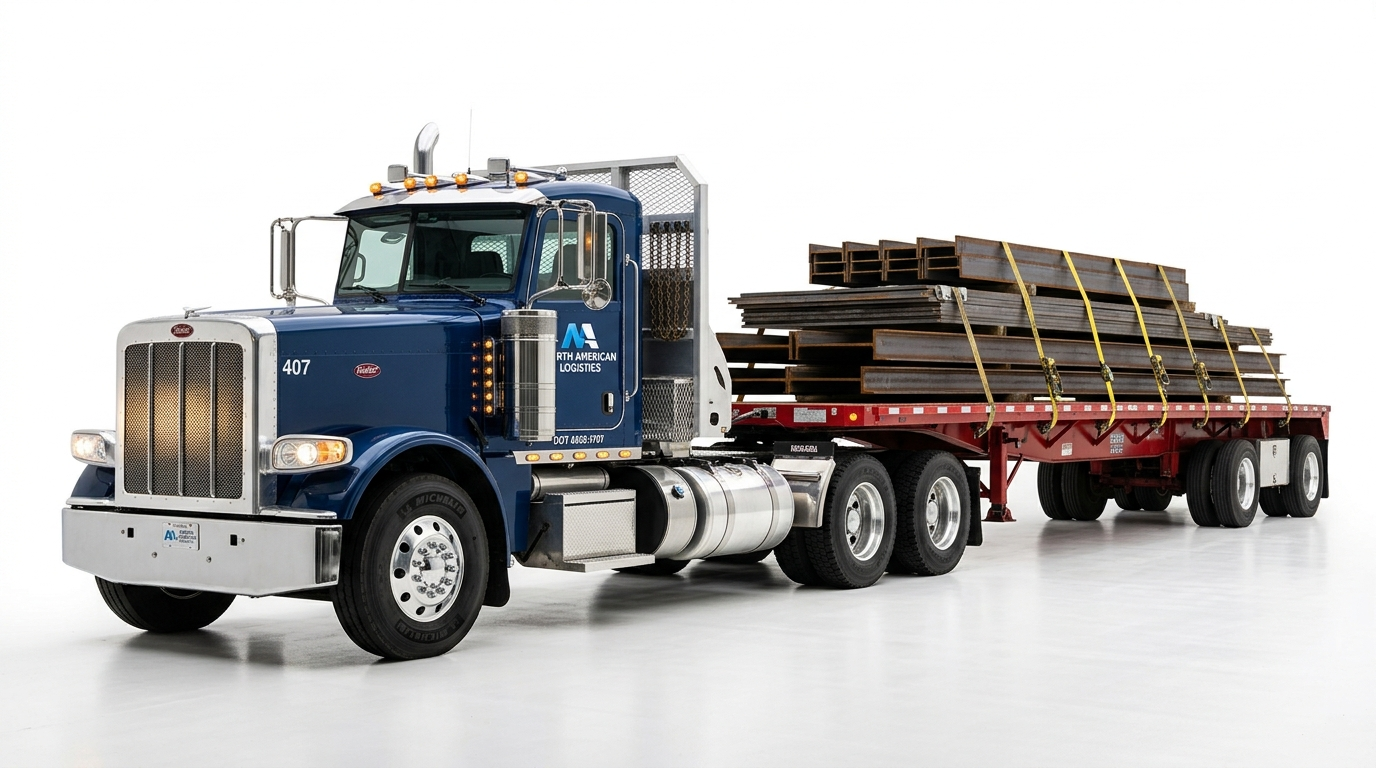
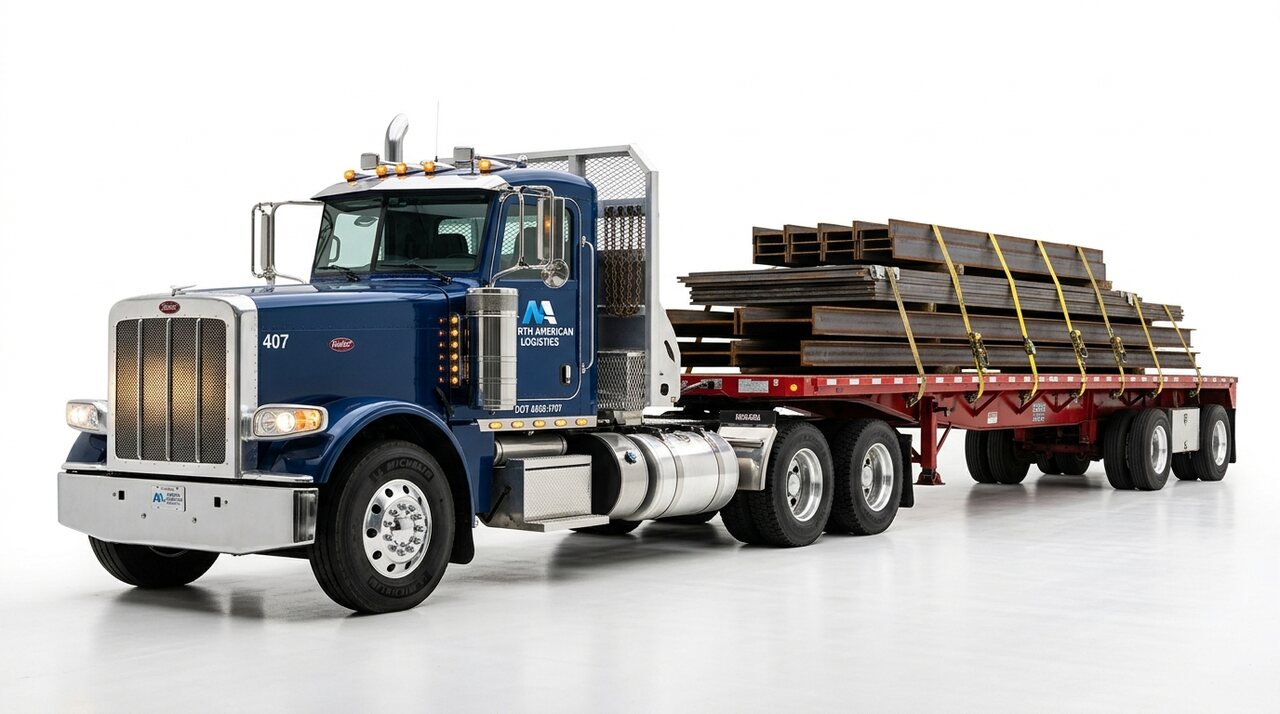
perf: migrate truck imagery to WebP and add thumbnails
Transitioned truck assets to WebP for improved performance and added dedicated thumbnail support to optimize load times and rendering in the UI.

diff --git a/src/components/TruckImage.tsx b/src/components/TruckImage.tsx
@@ -2,11 +2,15 @@ import React, { useState, useEffect } from 'react';
 import { TruckTypeData } from '../data/truckTypesData';
 import { Truck } from 'lucide-react';
 
+// Global cache of successfully loaded and decoded image URLs
+const loadedImageCache = new Set<string>();
+
 interface TruckImageProps {
   truck: TruckTypeData;
   className?: string;
   containerClassName?: string;
   isTransparentBlend?: boolean;
+  isThumbnail?: boolean;
   onLoaded?: () => void;
   alt?: string;
 }
@@ -16,31 +20,56 @@ export const TruckImage: React.FC<TruckImageProps> = ({
   className = 'w-full h-auto object-contain',
   containerClassName = '',
   isTransparentBlend = false,
+  isThumbnail = false,
   onLoaded,
   alt
 }) => {
-  // Try primary (Vite bundled asset) first, then fallback to static public URL
-  const [currentSrc, setCurrentSrc] = useState<string>(truck.publicImagePath || truck.realImagePath);
+  // Determine best image source: tiny WebP thumbnail for step buttons, optimized WebP for main view
+  const primarySrc = isThumbnail
+    ? (truck.thumbImagePath || `/images/trucks/${truck.id}-thumb.webp`)
+    : (truck.webpImagePath || truck.publicImagePath || `/images/trucks/${truck.id}.webp`);
+
+  const fallbackJpg = `/images/trucks/${truck.id}.jpg`;
+
+  const [currentSrc, setCurrentSrc] = useState<string>(primarySrc);
   const [hasError, setHasError] = useState<boolean>(false);
-  const [isLoaded, setIsLoaded] = useState<boolean>(false);
+  // If already loaded in memory, render immediately with 0ms delay
+  const [isLoaded, setIsLoaded] = useState<boolean>(() => loadedImageCache.has(primarySrc));
   const [triedFallback, setTriedFallback] = useState<boolean>(false);
 
   useEffect(() => {
-    // When truck changes, reset error & loaded state
-    setCurrentSrc(truck.publicImagePath || truck.realImagePath);
+    const nextSrc = isThumbnail
+      ? (truck.thumbImagePath || `/images/trucks/${truck.id}-thumb.webp`)
+      : (truck.webpImagePath || truck.publicImagePath || `/images/trucks/${truck.id}.webp`);
+
+    setCurrentSrc(nextSrc);
     setHasError(false);
-    setIsLoaded(false);
     setTriedFallback(false);
-  }, [truck.id, truck.realImagePath, truck.publicImagePath]);
+
+    // If this specific URL was already loaded in browser session, display immediately without flashing
+    if (loadedImageCache.has(nextSrc)) {
+      setIsLoaded(true);
+    } else {
+      setIsLoaded(false);
+    }
+  }, [truck.id, isThumbnail, truck.thumbImagePath, truck.webpImagePath, truck.publicImagePath]);
+
+  const handleLoad = () => {
+    loadedImageCache.add(currentSrc);
+    setIsLoaded(true);
+    if (onLoaded) {
+      onLoaded();
+    }
+  };
 
   const handleError = () => {
     if (!triedFallback) {
       setTriedFallback(true);
-      // Try switching between realImagePath and publicImagePath
-      if (currentSrc === truck.publicImagePath && truck.realImagePath) {
+      // Fallback from WebP to optimized JPEG or bundled asset
+      if (currentSrc !== fallbackJpg) {
+        setCurrentSrc(fallbackJpg);
+      } else if (truck.realImagePath && currentSrc !== truck.realImagePath) {
         setCurrentSrc(truck.realImagePath);
-      } else if (truck.publicImagePath) {
-        setCurrentSrc(truck.publicImagePath);
       } else {
         setHasError(true);
       }
@@ -49,52 +78,42 @@ export const TruckImage: React.FC<TruckImageProps> = ({
     }
   };
 
-  const handleLoad = () => {
-    setIsLoaded(true);
-    if (onLoaded) {
-      onLoaded();
-    }
-  };
-
   if (hasError) {
-    // Elegant SVG fallback with truck details if image completely fails
     return (
-      <div className={`flex flex-col items-center justify-center p-6 bg-slate-50 rounded-xl border border-slate-200 text-center select-none ${containerClassName}`}>
-        <div className="w-14 h-14 rounded-2xl bg-blue-50 border border-blue-100 flex items-center justify-center text-[#02a2f0] mb-3">
-          <Truck className="w-7 h-7" />
+      <div className={`flex flex-col items-center justify-center p-4 bg-slate-50 rounded-xl border border-slate-200 text-center select-none ${containerClassName}`}>
+        <div className="w-10 h-10 rounded-xl bg-blue-50 border border-blue-100 flex items-center justify-center text-[#02a2f0] mb-2">
+          <Truck className="w-5 h-5" />
         </div>
-        <div className="font-extrabold text-sm text-slate-800">{truck.name}</div>
-        <div className="text-xs text-slate-500 font-medium mt-1">{truck.category}</div>
-        <div className="mt-2 text-[10px] font-mono font-semibold px-2.5 py-1 bg-white rounded-md border border-slate-200 text-slate-600">
-          {truck.length} · {truck.maxCargoWeightLbs.toLocaleString()} lbs Payload
-        </div>
+        <div className="font-extrabold text-xs text-slate-800">{truck.name}</div>
+        <div className="text-[10px] text-slate-400 font-medium mt-0.5">{truck.category}</div>
       </div>
     );
   }
 
   return (
     <div className={`relative overflow-hidden ${containerClassName}`}>
-      {/* Loading Skeleton Pulse */}
+      {/* Ultra-light skeleton that disappears the instant the image is cached */}
       {!isLoaded && (
-        <div className="absolute inset-0 bg-slate-50 flex items-center justify-center z-0">
-          <div className="flex items-center gap-2 text-slate-400 text-xs font-semibold">
-            <div className="w-3.5 h-3.5 rounded-full border-2 border-slate-300 border-t-[#02a2f0] animate-spin" />
-            <span>Loading {truck.name.split(' ')[0]} photo...</span>
-          </div>
+        <div className="absolute inset-0 bg-slate-50/80 flex items-center justify-center z-0 transition-opacity duration-150">
+          <div className="w-3.5 h-3.5 rounded-full border-2 border-slate-300 border-t-[#02a2f0] animate-spin" />
         </div>
       )}
 
-      {/* Main Image */}
+      {/* High-speed image tag */}
       <img
         src={currentSrc}
         alt={alt || `${truck.name} - ${truck.category}`}
         loading="eager"
         decoding="async"
+        fetchPriority={isThumbnail ? 'low' : 'high'}
         onLoad={handleLoad}
         onError={handleError}
-        className={`${className} transition-opacity duration-300 ${
+        className={`${className} ${
           isLoaded ? 'opacity-100' : 'opacity-0'
         } ${isTransparentBlend ? 'mix-blend-multiply' : ''}`}
+        style={{
+          transition: isLoaded ? 'none' : 'opacity 0.15s ease-out'
+        }}
       />
     </div>
   );

diff --git a/src/data/truckTypesData.ts b/src/data/truckTypesData.ts
@@ -38,6 +38,8 @@ export interface TruckTypeData {
   badge: string;
   realImagePath: string;
   publicImagePath: string;
+  webpImagePath?: string;
+  thumbImagePath?: string;
   color: string;
   shortDescription: string;
   fullDescription: string;
@@ -73,7 +75,9 @@ export const TRUCK_TYPES: TruckTypeData[] = [
     category: 'Enclosed General Freight',
     badge: 'Most Common (70% of US Freight)',
     realImagePath: dryVanImg,
-    publicImagePath: '/images/trucks/dry-van.jpg',
+    publicImagePath: '/images/trucks/dry-van.webp',
+    webpImagePath: '/images/trucks/dry-van.webp',
+    thumbImagePath: '/images/trucks/dry-van-thumb.webp',
     color: '#02a2f0',
     shortDescription: 'The universal workhorse of domestic logistics. Completely enclosed 53-foot trailer protecting non-perishable palletized consumer freight from weather, road debris, and theft.',
     fullDescription: 'Dry vans represent over two-thirds of all commercial trailers on American highways. Measuring 53 feet in length and 102 inches in width, they provide 4,000+ cubic feet of volume. Featuring thin, lightweight composite sidewalls, a translucent or aluminum roof, and wood flooring, they are loaded exclusively through rear double doors at dock-height facilities.',
@@ -226,7 +230,9 @@ export const TRUCK_TYPES: TruckTypeData[] = [
     category: 'Temperature-Controlled Carrier',
     badge: 'Perishable & High-Value Cargo',
     realImagePath: reeferImg,
-    publicImagePath: '/images/trucks/reefer.jpg',
+    publicImagePath: '/images/trucks/reefer.webp',
+    webpImagePath: '/images/trucks/reefer.webp',
+    thumbImagePath: '/images/trucks/reefer-thumb.webp',
     color: '#06b6d4',
     shortDescription: 'Insulated 53-foot trailer with an independent front-mounted diesel refrigeration unit maintaining precise climate from -20°F up to +70°F.',
     fullDescription: 'Reefer trailers feature 2 to 3 inches of high-density polyurethane foam insulation throughout the ceiling, sidewalls, and floor. An independent nose-mounted diesel refrigeration unit (Carrier Vector or Thermo King Precedent) pumps conditioned air through ceiling ducts and extruded aluminum T-duct flooring. Transports fresh produce, pharmaceuticals, meat, ice cream, and frozen poultry.',
@@ -364,7 +370,9 @@ export const TRUCK_TYPES: TruckTypeData[] = [
     category: 'Open Deck Cargo Platform',
     badge: 'Heavy Industrial & Building Materials',
     realImagePath: flatbedImg,
-    publicImagePath: '/images/trucks/flatbed.jpg',
+    publicImagePath: '/images/trucks/flatbed.webp',
+    webpImagePath: '/images/trucks/flatbed.webp',
+    thumbImagePath: '/images/trucks/flatbed-thumb.webp',
     color: '#f59e0b',
     shortDescription: 'Open steel and hardwood platform trailer with no sides, walls, or roof. Built for fast crane or forklift loading of oversized, heavy, and long industrial cargo.',
     fullDescription: 'Flatbeds provide an unrestricted 48-foot or 53-foot flat wooden deck. With no walls, ceiling, or door frames, freight can be lowered onto the deck from above by overhead gantry cranes or loaded from both sides simultaneously by forklifts. Drivers must be physically fit and proficient in tarping and tie-down securement.',
@@ -511,7 +519,9 @@ export const TRUCK_TYPES: TruckTypeData[] = [
     category: 'Drop-Frame Machinery Hauler',
     badge: 'Tall Freight & Equipment Specialist',
     realImagePath: stepDeckImg,
-    publicImagePath: '/images/trucks/step-deck.jpg',
+    publicImagePath: '/images/trucks/step-deck.webp',
+    webpImagePath: '/images/trucks/step-deck.webp',
+    thumbImagePath: '/images/trucks/step-deck-thumb.webp',
     color: '#8b5cf6',
     shortDescription: 'Drop-frame trailer with an upper deck and a dropped lower deck riding only 38"–40" above the ground, allowing tall cargo up to 10\' 6" to clear highway bridges legally.',
     fullDescription: 'Step deck trailers feature a structural gooseneck that drops the main cargo deck down immediately after passing the tractor fifth wheel. While a standard flatbed deck sits 60 inches off the road, a step deck\'s lower well sits only 38 to 42 inches above the asphalt. This 18-to-20-inch height advantage allows tall industrial equipment to travel without expensive over-height permits.',
@@ -652,7 +662,9 @@ export const TRUCK_TYPES: TruckTypeData[] = [
     category: 'Medium-Duty Straight Truck',
     badge: 'Last-Mile & Urban Delivery Master',
     realImagePath: boxTruckImg,
-    publicImagePath: '/images/trucks/box-truck.jpg',
+    publicImagePath: '/images/trucks/box-truck.webp',
+    webpImagePath: '/images/trucks/box-truck.webp',
+    thumbImagePath: '/images/trucks/box-truck-thumb.webp',
     color: '#10b981',
     shortDescription: 'Rigid single-chassis commercial delivery vehicle with a 26-foot dry freight box and hydraulic rear liftgate. Essential for tight city streets, shopping centers, and residential deliveries.',
     fullDescription: 'Unlike articulated tractor-trailers, straight box trucks have the driver cab and cargo body permanently mounted onto a single rigid steel frame. Equipped with a hydraulic tuck-under liftgate that lowers pallets from truck floor height down to the asphalt, they provide the backbone of urban e-commerce and retail delivery where 53-foot semi-trucks are banned.',
@@ -784,7 +796,9 @@ export const TRUCK_TYPES: TruckTypeData[] = [
     category: 'Liquid / Fluid Bulk Hauler',
     badge: 'Bulk Liquids & Chemical Specialist',
     realImagePath: tankerImg,
-    publicImagePath: '/images/trucks/tanker.jpg',
+    publicImagePath: '/images/trucks/tanker.webp',
+    webpImagePath: '/images/trucks/tanker.webp',
+    thumbImagePath: '/images/trucks/tanker-thumb.webp',
     color: '#ec4899',
     shortDescription: 'Cylindrical stainless steel or aluminum tank trailer engineered for bulk liquid transport. Equipped with internal baffles to prevent dynamic fluid surge.',
     fullDescription: 'Liquid bulk tankers are precision pressure vessels designed to carry liquid foods (milk, juices, vegetable oils) or fuels and chemicals. The cylindrical shape provides high structural strength and a low aerodynamic profile. Drivers must possess specialized tanker endorsements due to the dangerous dynamic fluid surge during acceleration and braking.',

diff --git a/index.html b/index.html
@@ -12,13 +12,13 @@
     <link rel="preconnect" href="https://fonts.googleapis.com">
     <link rel="preconnect" href="https://fonts.gstatic.com" crossorigin>
     <link href="https://fonts.googleapis.com/css2?family=Plus+Jakarta+Sans:ital,wght@0,300..800;1,300..800&family=JetBrains+Mono:wght@400;500;600;700&display=swap" rel="stylesheet">
-    <!-- Preload Real Commercial Truck High-Resolution Photography -->
-    <link rel="preload" as="image" href="/images/trucks/dry-van.jpg">
-    <link rel="preload" as="image" href="/images/trucks/reefer.jpg">
-    <link rel="preload" as="image" href="/images/trucks/flatbed.jpg">
-    <link rel="preload" as="image" href="/images/trucks/step-deck.jpg">
-    <link rel="preload" as="image" href="/images/trucks/box-truck.jpg">
-    <link rel="preload" as="image" href="/images/trucks/tanker.jpg">
+    <!-- Preload High-Speed Real Commercial Truck Photography (Optimized WebP) -->
+    <link rel="preload" as="image" href="/images/trucks/dry-van.webp" type="image/webp">
+    <link rel="preload" as="image" href="/images/trucks/reefer.webp" type="image/webp">
+    <link rel="preload" as="image" href="/images/trucks/flatbed.webp" type="image/webp">
+    <link rel="preload" as="image" href="/images/trucks/step-deck.webp" type="image/webp">
+    <link rel="preload" as="image" href="/images/trucks/box-truck.webp" type="image/webp">
+    <link rel="preload" as="image" href="/images/trucks/tanker.webp" type="image/webp">
   </head>
   <body class="bg-white text-slate-800 antialiased font-sans selection:bg-[#02a2f0] selection:text-white min-h-screen">
     <div id="root"></div>

diff --git a/src/App.tsx b/src/App.tsx
@@ -26,16 +26,19 @@ export default function App() {
     document.documentElement.classList.remove('dark');
   }, []);
 
-  // Pre-decode and cache all 6 truck images into browser memory immediately
+  // Pre-decode and cache all 6 truck images and thumbnails into browser memory immediately
   useEffect(() => {
     TRUCK_TYPES.forEach(t => {
-      if (t.publicImagePath) {
-        const img = new Image();
-        img.src = t.publicImagePath;
+      if (t.thumbImagePath) {
+        const thumb = new Image();
+        thumb.src = t.thumbImagePath;
+        if ('decode' in thumb) thumb.decode().catch(() => {});
       }
-      if (t.realImagePath && t.realImagePath !== t.publicImagePath) {
-        const img2 = new Image();
-        img2.src = t.realImagePath;
+      const mainSrc = t.webpImagePath || t.publicImagePath;
+      if (mainSrc) {
+        const img = new Image();
+        img.src = mainSrc;
+        if ('decode' in img) img.decode().catch(() => {});
       }
     });
   }, []);

diff --git a/src/components/TruckOneByOneShowcase.tsx b/src/components/TruckOneByOneShowcase.tsx
@@ -111,6 +111,7 @@ export const TruckOneByOneShowcase: React.FC<TruckOneByOneShowcaseProps> = ({
                 <div className="w-10 h-7 rounded-lg overflow-hidden bg-slate-100 shrink-0 border border-slate-200">
                   <TruckImage
                     truck={t}
+                    isThumbnail={true}
                     className="w-full h-full object-cover"
                   />
                 </div>
